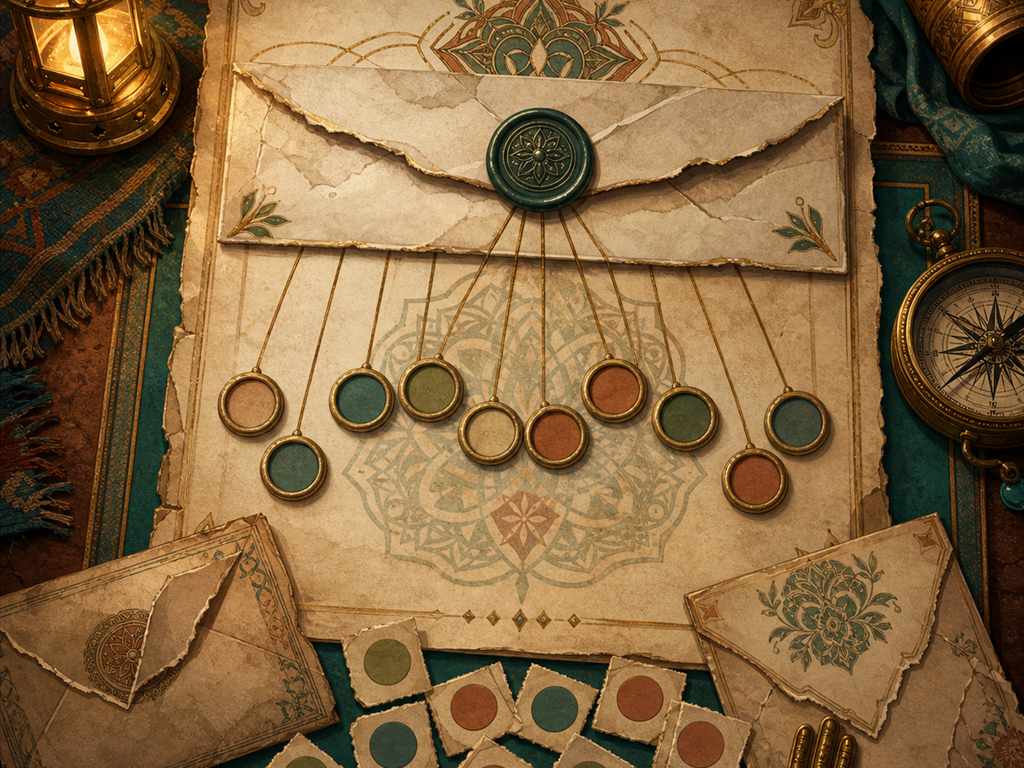
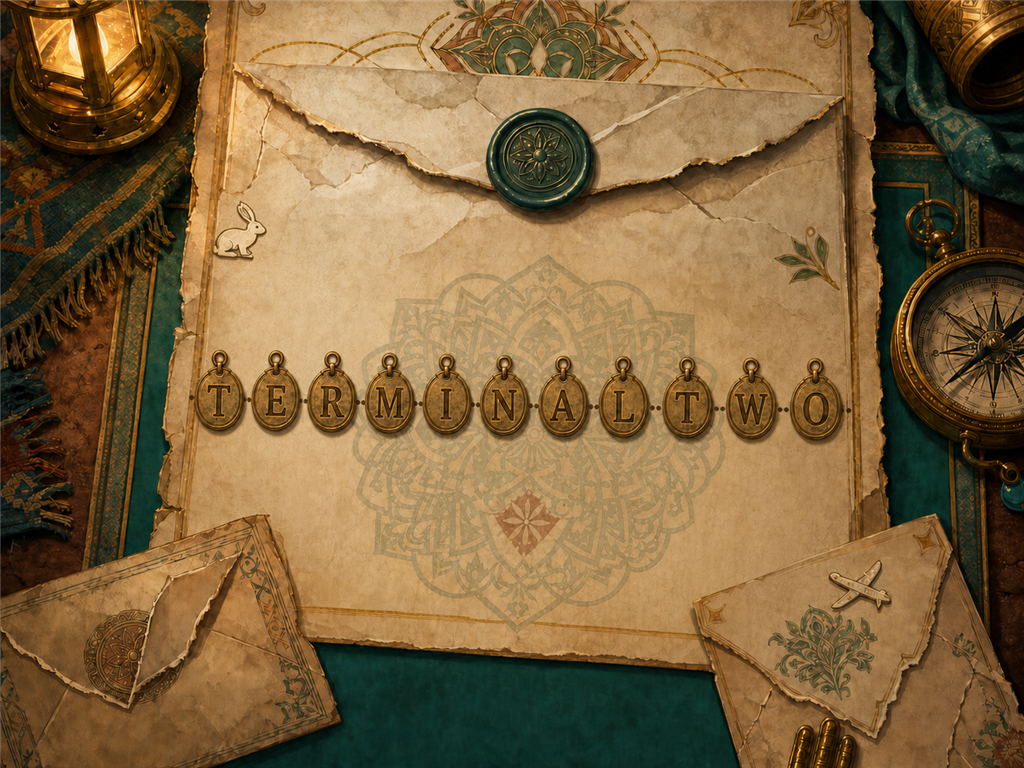
Update game assets and gameplay

diff --git a/scripts/puzzle.js b/scripts/puzzle.js
@@ -74,6 +74,7 @@ function puzzleScreen(id, game) {
   const hintBox = el('div', { class: 'hint-box' });
   const body = el('div', { class: 'puzzle-body' });
   const pointsLine = el('p', { class: 'points-line' });
+  const artTargetButtons = [];
 
   const renderHint = () => {
     hintBox.innerHTML = '';
@@ -87,6 +88,24 @@ function puzzleScreen(id, game) {
     if (p.type === 'choice') return draft.value;
     if (p.type === 'sequence') return (draft.seq || []).map((i) => p.tokens[i]);
     return draft.value;
+  };
+
+  const refreshArtTargets = () => {
+    for (const { button, tokenIndex } of artTargetButtons) {
+      const order = (draft.seq || []).indexOf(tokenIndex);
+      button.classList.toggle('selected', order >= 0);
+      button.setAttribute('aria-pressed', String(order >= 0));
+      button.textContent = order >= 0 ? String(order + 1) : '';
+    }
+  };
+
+  const toggleSequenceIndex = (tokenIndex) => {
+    draft.seq ??= [];
+    const at = draft.seq.indexOf(tokenIndex);
+    if (at >= 0) draft.seq.splice(at, 1); else draft.seq.push(tokenIndex);
+    game.persist();
+    renderBody();
+    refreshArtTargets();
   };
 
   const renderBody = () => {
@@ -107,11 +126,7 @@ function puzzleScreen(id, game) {
         const used = draft.seq.includes(i);
         grid.append(el('button', {
           class: `seq-token${used ? ' used' : ''}`, 'aria-pressed': String(used),
-          onclick: () => {
-            const at = draft.seq.indexOf(i);
-            if (at >= 0) draft.seq.splice(at, 1); else draft.seq.push(i);
-            game.persist(); renderBody();
-          }
+          onclick: () => toggleSequenceIndex(i)
         }, token));
       });
       body.append(grid, el('p', { class: 'seq-readout', 'aria-live': 'polite' },
@@ -144,10 +159,23 @@ function puzzleScreen(id, game) {
   }, 'Indice');
 
   const submitBtn = el('button', { class: 'btn primary submit' }, 'Valider');
+  const artCanvas = el('div', { class: 'puzzle-art-canvas' }, puzzleArt(id, p.title));
   const visual = el('figure', { class: 'puzzle-visual' },
-    puzzleArt(id, p.title),
+    artCanvas,
     reactionLayer(game, 'wrong', p.n),
     reactionLayer(game, 'correct', p.n));
+  for (const target of p.artTargets || []) {
+    const button = el('button', {
+      class: 'puzzle-art-target',
+      type: 'button',
+      style: `left:${target.x}%;top:${target.y}%`,
+      'aria-label': `Select ${target.label}`,
+      'aria-pressed': 'false',
+      onclick: () => toggleSequenceIndex(target.tokenIndex)
+    });
+    artCanvas.append(button);
+    artTargetButtons.push({ button, tokenIndex: target.tokenIndex });
+  }
   const controls = el('div', { class: 'puzzle puzzle-controls' },
     el('div', { class: 'instructions' }, p.inst),
     body, hintBox, feedback);
@@ -206,6 +234,7 @@ function puzzleScreen(id, game) {
 
   submitBtn.addEventListener('click', submit);
   renderBody();
+  refreshArtTargets();
   renderHint();
   refreshPoints();
   if (misses() >= 3) hintBtn.classList.add('suggested');

diff --git a/sprite-fix.css b/sprite-fix.css
@@ -176,6 +176,8 @@ body:has(.title-screen) .screen{
   background-color:#102f35!important;
   background-image:none!important;
 }
+.home-options-btn{position:absolute;z-index:3;top:calc(14px + env(safe-area-inset-top));right:14px;width:46px;height:46px;display:grid;place-items:center;border:1px solid #f4db9c88;border-radius:50%;background:#153f46e8;box-shadow:0 8px 20px #0005}
+.home-options-btn img{width:26px!important;height:26px!important;margin:0!important;filter:none!important}
 .home-key-art{
   position:absolute;
   z-index:-2;
@@ -375,8 +377,8 @@ body:has(.title-screen) .screen{
   right:clamp(2px,3vw,42px)!important;
 }
 .character .sprite{
-  width:clamp(112px,22vw,220px)!important;
-  max-height:min(54vh,380px)!important;
+  width:clamp(190px,30vw,340px)!important;
+  max-height:min(74vh,540px)!important;
   object-position:bottom center!important;
 }
 
@@ -394,11 +396,11 @@ body:has(.title-screen) .screen{
     opacity:0;
   }
   .character.leah{
-    left:calc(50% - min(40vw,320px))!important;
+    left:calc(50% - min(49.5vw,400px))!important;
   }
   .character.moshe{
     right:auto!important;
-    left:calc(50% + min(40vw,320px))!important;
+    left:calc(50% + min(49.5vw,400px))!important;
     transform:translateX(-100%);
   }
 }
@@ -514,8 +516,8 @@ body:has(.title-screen) .screen{
     min-height:0!important;
   }
   .character .sprite{
-    width:clamp(100px,32vw,150px)!important;
-    max-height:44vh!important;
+    width:clamp(157px,49vw,245px)!important;
+    max-height:68vh!important;
   }
   .scene-info>.row.wrap{
     grid-template-columns:repeat(2,minmax(0,1fr));
@@ -545,7 +547,7 @@ body:has(.title-screen) .screen{
     height:21px;
   }
   .character .sprite{
-    max-height:46vh!important;
+    max-height:64vh!important;
   }
   .title-card .eyebrow,
   .title-card .home-summary{

diff --git a/styles.css b/styles.css
@@ -134,8 +134,13 @@ body.reduced-motion .puzzle-reaction,body.reduced-motion .puzzle-reaction img,bo
 .puzzle-shell .puzzle-head p:not(.eyebrow){margin:5px 0 0;font-size:clamp(.82rem,1.8vw,.94rem);line-height:1.35}
 .puzzle-shell .points-line{font-size:.78rem!important;margin-top:4px!important}
 .puzzle-workspace{display:grid;grid-template-columns:minmax(260px,44%) minmax(0,1fr);min-height:0;overflow:hidden}
-.puzzle-visual{position:relative;min-width:0;margin:0;background:#173f42;overflow:hidden}
-.puzzle-board-art{display:block;width:100%;height:100%;min-height:260px;object-fit:cover}
+.puzzle-visual{position:relative;min-width:0;margin:0;background:#173f42;overflow:hidden;container-type:size}
+.puzzle-art-canvas{position:absolute;left:50%;top:50%;width:min(100cqw,calc(100cqh * 4 / 3));height:min(100cqh,calc(100cqw * 3 / 4));aspect-ratio:4/3;transform:translate(-50%,-50%)}
+.puzzle-board-art{display:block;width:100%;height:100%;min-height:0;object-fit:contain}
+.puzzle-art-target{position:absolute;z-index:3;width:clamp(34px,4vw,48px);height:clamp(34px,4vw,48px);transform:translate(-50%,-50%);border:2px dashed rgba(255,248,233,.88);border-radius:50%;background:rgba(21,63,70,.16);color:#fff;font-size:.78rem;font-weight:900;box-shadow:0 0 0 3px rgba(214,168,73,.32);touch-action:manipulation}
+.puzzle-art-target:hover,.puzzle-art-target:focus-visible{background:rgba(214,168,73,.45)}
+.puzzle-art-target.selected{border-style:solid;background:var(--navy);box-shadow:0 0 0 3px var(--gold)}
+.puzzle-shell[data-puzzle="pz-invitation"] .puzzle-art-target{width:5.5%;min-width:18px;height:64px;border-radius:12px;font-size:.64rem}
 .puzzle-controls{min-height:0;overflow:auto;padding:16px;font-size:clamp(.84rem,1.7vw,.96rem)}
 .puzzle-controls .instructions{margin-bottom:12px;padding:9px 11px;line-height:1.35}
 .puzzle-controls .option{padding:9px 10px;line-height:1.3}
@@ -161,7 +166,9 @@ body.reduced-motion .puzzle-reaction,body.reduced-motion .puzzle-reaction img,bo
   .puzzle-shell .puzzle-head h2{font-size:clamp(20px,6vw,27px)}
   .puzzle-workspace{display:block;overflow:auto}
   .puzzle-visual{width:100%;height:min(25dvh,190px);min-height:128px}
-  .puzzle-board-art{height:100%;min-height:0;object-fit:cover}
+  .puzzle-visual:has(.puzzle-art-target){height:min(31dvh,264px)}
+  .puzzle-art-canvas{width:auto;max-width:100%;aspect-ratio:4/3}
+  .puzzle-board-art{height:100%;min-height:0;object-fit:contain}
   .puzzle-controls{overflow:visible;padding:12px 13px;font-size:.86rem}
   .puzzle-actions{grid-template-columns:repeat(4,minmax(0,1fr));padding:8px 9px calc(8px + env(safe-area-inset-bottom))}
   .puzzle-actions button{min-width:0;padding:7px 4px;font-size:.76rem;line-height:1.1}

diff --git a/scripts/engine.js b/scripts/engine.js
@@ -42,6 +42,7 @@ const game = {
   closeAllPanels() { closeModal(); },
 
   startNewGame(save) {
+    save.settings = { ...save.settings, ...(saves.readPreferences() || {}) };
     this.save = save;
     this.mode = 'scene';
     const intro = this.data.cutscenes.cutscenes.find((c) => c.id === 'cs01-invitation');
@@ -49,6 +50,7 @@ const game = {
   },
 
   loadSave(save) {
+    save.settings = { ...save.settings, ...(saves.readPreferences() || {}) };
     this.save = save;
     this.mode = 'scene';
     this.render();
@@ -182,7 +184,7 @@ const game = {
   openNotebook() { openModal(notebookPanel(this), { label: 'Mystery Notebook' }); },
 
   openSettings(fromHome = false) {
-    const s = this.save?.settings || saves.blankSave().settings;
+    const s = saves.readPreferences() || this.save?.settings || saves.blankSave().settings;
     const rows = [
       ['sound', 'Sound cues'], ['music', 'Music'], ['captions', 'Captions'],
       ['largeText', 'Larger text'], ['contrast', 'High contrast'],
@@ -199,8 +201,9 @@ const game = {
       input.addEventListener('change', () => {
         s[keyName] = input.checked;
         applySettings(s);
-        if (keyName === 'music') this.audio.setChapter(this.save?.chapterId, s.music && this.mode === 'scene');
-        this.persist();
+        if (keyName === 'music') this.audio.setChapter(this.mode === 'home' ? 'home' : this.save?.chapterId, s.music);
+        saves.writePreferences(s);
+        if (this.save) this.persist();
       });
       list.append(el('label', { class: 'card settings-row' }, label, input));
     }
@@ -266,7 +269,7 @@ async function boot() {
   document.addEventListener('pointerdown', () => audio.unlock(), { once: true, passive: true });
   document.addEventListener('keydown', () => audio.unlock(), { once: true });
   startPlaytimeClock();
-  applySettings(saves.readAutosave()?.settings || saves.blankSave().settings);
+  applySettings(saves.readPreferences() || saves.readAutosave()?.settings || saves.blankSave().settings);
   loading.remove();
   game.render();
   window.addEventListener('beforeunload', () => { if (game.save) { game.persist(); game.autosaveNow(); } });

diff --git a/scripts/home.js b/scripts/home.js
@@ -10,6 +10,8 @@ export function renderHome(game) {
   $('#objectiveText').textContent = 'Begin the journey';
   const hasAnySave = saves.SLOT_IDS.some((id) => saves.readSlot(id) || saves.readSlotBackup(id)) || saves.readAutosave();
   const latest = latestSave();
+  const homeSettings = saves.readPreferences() || latest?.settings || saves.blankSave().settings;
+  game.audio?.setChapter('home', homeSettings.music);
 
   const secondaryMenu = el('div', {
     class: 'home-more-menu', id: 'home-more-menu', hidden: ''
@@ -19,7 +21,7 @@ export function renderHome(game) {
     menuBtn('Mystery Notebook', !latest, () => latest && (game.loadSave(latest), game.openNotebook())),
     menuBtn('Cutscenes', !latest, () => {
       if (!latest) return;
-      game.save = latest;
+      game.save = { ...latest, settings: { ...latest.settings, ...(saves.readPreferences() || {}) } };
       openModal(galleryPanel(game, null), { label: 'Cutscene gallery' });
     }),
     menuBtn('Options', false, () => game.openSettings(true)),
@@ -60,6 +62,13 @@ export function renderHome(game) {
       decoding: 'async',
       fetchpriority: 'high'
     }),
+    el('button', {
+      class: 'home-options-btn',
+      type: 'button',
+      'aria-label': 'Options',
+      title: 'Options',
+      onclick: () => game.openSettings(true)
+    }, el('img', { src: 'assets/png/ui/icon-settings.png', alt: '' })),
     el('article', { class: 'title-card' },
       el('p', { class: 'eyebrow' }, 'A cooperative travel mystery'),
       el('h1', { id: 'home-title' }, 'Our Story ', el('span', {}, 'The Missing Flight')),

diff --git a/scripts/audio.js b/scripts/audio.js
@@ -2,6 +2,8 @@
 // Web Audio so the static PWA keeps working offline without a large dependency.
 
 const THEMES = {
+  home: { tempo: 78, root: 50, notes: [7, 12, 15, 14, 12, 9, 10, 7, 5, 9, 7, 4] },
+  cinematic: { tempo: 72, root: 50, notes: [0, 3, 7, 10, 12, 15, 14, 10, 7, 5, 3, 2] },
   prologue: { tempo: 88, root: 50, notes: [0, 3, 7, 5, 3, 2, 0, -2] },
   ch1: { tempo: 92, root: 50, notes: [0, 2, 3, 7, 5, 3, 2, 0] },
   ch2: { tempo: 96, root: 53, notes: [7, 9, 10, 14, 12, 10, 7, 5] },
@@ -63,8 +65,11 @@ export function createAudioDirector() {
     const now = context.currentTime + 0.04;
     for (let i = 0; i < 8; i++) {
       const offset = theme.notes[(step + i) % theme.notes.length];
-      voice(theme.root + offset, now + i * beat / 2, beat * 0.42);
-      if (i % 2 === 0) voice(theme.root - 12 + [0, 5, 3, 7][(step + i) % 4], now + i * beat / 2, beat * 0.8, 'sine', 0.045);
+      const cinematic = activeChapter === 'cinematic';
+      const home = activeChapter === 'home';
+      voice(theme.root + offset, now + i * beat / 2, beat * (cinematic ? 0.7 : 0.42), home ? 'triangle' : 'sine', cinematic ? 0.075 : 0.06);
+      if (i % 2 === 0) voice(theme.root - 12 + [0, 5, 3, 7][(step + i) % 4], now + i * beat / 2, beat * 0.9, 'triangle', cinematic ? 0.065 : 0.045);
+      if ((home || cinematic) && i % 3 === 0) voice(theme.root + offset + 12, now + i * beat / 2, beat * 0.24, 'sine', home ? 0.028 : 0.04);
     }
     step = (step + 2) % theme.notes.length;
     timer = window.setTimeout(scheduleMeasure, beat * 4000);

diff --git a/scripts/save.js b/scripts/save.js
@@ -29,6 +29,15 @@ export function readSlotBackup(slotId) {
   return text ? deserializeSave(text) : null;
 }
 
+export function readPreferences() {
+  try { return JSON.parse(localStorage.getItem(key('preferences'))) || null; }
+  catch { return null; }
+}
+
+export function writePreferences(settings) {
+  localStorage.setItem(key('preferences'), JSON.stringify(settings));
+}
+
 function stamped(save) {
   save.lastSavedAt = new Date().toISOString();
   return serializeSave(save);

diff --git a/index.html b/index.html
@@ -9,8 +9,8 @@
   <link rel="manifest" href="manifest.webmanifest">
   <link rel="icon" type="image/png" href="assets/png/ui/app-icon.png">
   <link rel="apple-touch-icon" href="assets/png/ui/app-icon.png">
-  <link rel="stylesheet" href="styles.css?v=20260720-puzzle-art">
-  <link rel="stylesheet" href="sprite-fix.css?v=20260720-home">
+  <link rel="stylesheet" href="styles.css?v=20260720-interactive-clues">
+  <link rel="stylesheet" href="sprite-fix.css?v=20260720-interactive-clues">
 </head>
 <body>
   <div id="app" class="app-shell">
@@ -51,6 +51,6 @@
 
   <div id="toast" class="toast" role="status" aria-live="polite"></div>
 
-  <script type="module" src="scripts/engine.js?v=20260720-puzzle-art"></script>
+  <script type="module" src="scripts/engine.js?v=20260720-interactive-clues"></script>
 </body>
 </html>

diff --git a/scripts/cutscene.js b/scripts/cutscene.js
@@ -11,11 +11,13 @@ export function playCutscene(cs, game, { replay = false, onDone } = {}) {
   const textHost = el('div', { class: 'cutscene-text', 'aria-live': 'polite' });
   let i = 0;
   let finished = false;
+  game.audio?.setChapter('cinematic', game.save?.settings.music !== false);
 
   const finish = () => {
     if (finished) return;
     finished = true;
     overlay.remove();
+    game.audio?.setChapter(game.mode === 'home' ? 'home' : game.save?.chapterId, game.save?.settings.music !== false);
     onDone?.();
   };
 

diff --git a/sw.js b/sw.js
@@ -1,5 +1,5 @@
 const CACHE_PREFIX = 'our-story-';
-const CACHE_VERSION = 'v10-20260720-pan-puzzle-art';
+const CACHE_VERSION = 'v11-20260720-pan-interactive-clues';
 const SHELL_CACHE = `${CACHE_PREFIX}shell-${CACHE_VERSION}`;
 const PNG_CACHE = `${CACHE_PREFIX}png-${CACHE_VERSION}`;
 const ACTIVE_CACHES = new Set([SHELL_CACHE, PNG_CACHE]);